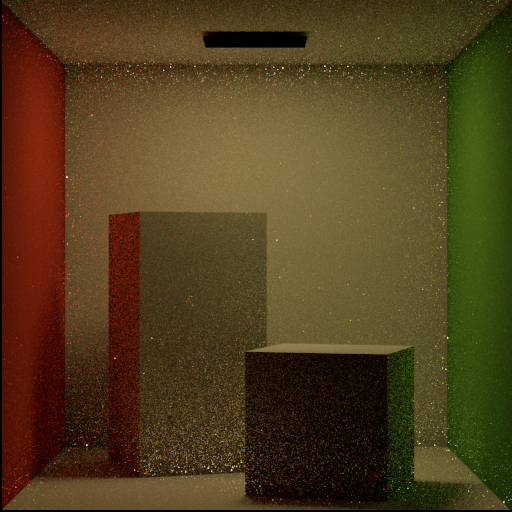
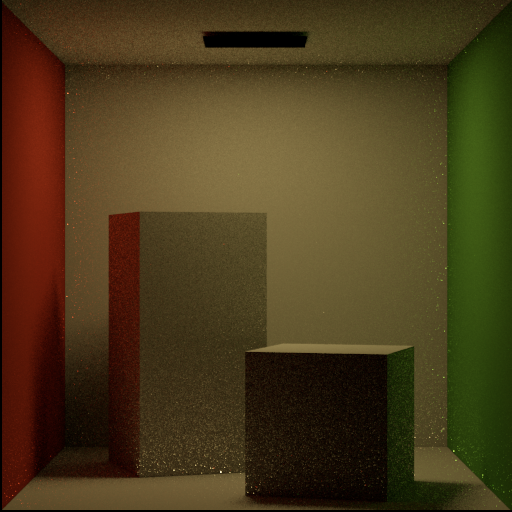
update gallery and readme

diff --git a/src/integrators/bidir.cpp b/src/integrators/bidir.cpp
@@ -39,7 +39,8 @@ private:
                          int max_vertices) const;
 
     Vec3f connectPaths(const std::vector<Vertex> &cam_path, const std::vector<Vertex> &light_path,
-                       const Scene *scene, int s, int t, Float &mis_weight, Vec2f &pfilm_new) const;
+                       const Scene *scene, int s, int t, Float &mis_weight, Vec2f &pfilm_new,
+                       Sampler *sampler) const;
 
     bool isConnValid(const std::vector<Vertex> &cam_path, const std::vector<Vertex> &light_path,
                      const Scene *scene, int cam_idx, int light_idx) const;
@@ -75,7 +76,7 @@ public:
                 //     continue;
                 Vec2f pfilm_new{-1};
                 Float mis_weight = 0;
-                Vec3f contrib = connectPaths(cam_path, light_path, scene, s, t, mis_weight, pfilm_new);
+                Vec3f contrib = connectPaths(cam_path, light_path, scene, s, t, mis_weight, pfilm_new, sampler);
                 // TODO: right now ignore pfilm_new. this is for direct connection of light vertex to camera
                 L += contrib * mis_weight;
             }
@@ -227,10 +228,11 @@ void BidirIntegrator::createLightPath(std::vector<Vertex> &light_path, const Sce
 }
 
 Vec3f BidirIntegrator::connectPaths(const std::vector<Vertex> &cam_path, const std::vector<Vertex> &light_path,
-                                    const Scene *scene, int s, int t, Float &mis_weight, Vec2f &pfilm_new) const {
+                                    const Scene *scene, int s, int t, Float &mis_weight, Vec2f &pfilm_new,
+                                    Sampler *sampler) const {
     if (!isConnValid(cam_path, light_path, scene, t - 1, s - 1))
         return Vec3f{0};
-
+        
     int cam_idx = t - 1;
     int light_idx = s - 1;
     Vertex vcam = cam_path.at(cam_idx);

diff --git a/src/core/Integrator.cpp b/src/core/Integrator.cpp
@@ -25,8 +25,8 @@ void SamplingIntegrator::render(const Scene *scene, Sensor *sensor, uint32_t n_t
         if (!g_DEBUG)
             break;
         for (int col = 0; col < width; col++) {
-            // if (row != 0 || col != 95)
-            //     continue;
+            if (row != 97 || col != 144)
+                continue;
             for (size_t i = 0; i < sensor->sampler.spp; i++) {
                 Float px, py;
                 Ray sensor_ray = sensor->sample_ray(row, col, sensor->sampler.get_2D(), px, py);

diff --git a/README.md b/README.md
@@ -16,7 +16,7 @@ PacificRenderer is a physically-based renderer written in C++. It aims to provid
     - Path tracer (`path`)
 	- Particle tracer (`ptracer`)
 	- Unstratified path tracer (`path-unstrat`. In contrast to the regular path tracer which samples the film plane pixel by pixel(i.e. stratified), this integrator samples the film plane in an unstratified manner. It's noisier than the regular path tracer, and was written for the purpose of demonstrating the advantages of stratified sampling)
-	- Bidirectional path tracer (`bidirectional`. Note that the strategies for s=0 and t=1 are not yet implemented, hence the resulting images are not better than the previous integrators)
+	- Bidirectional path tracer (`bidir`. Note that the strategies for s=0 and t=1 are not yet implemented, hence the resulting images are not better than the previous integrators)
 	- Direct lighting (`direct`)
 	- Depth (`depth`), Albedo (`albedo`), Geometric normal (`geometric_normal`)
 - **BSDFs and Materials**:
@@ -88,6 +88,8 @@ PacificRenderer is a physically-based renderer written in C++. It aims to provid
 
 Below are some images rendered with PacificRenderer. The scene files are mostly from [Mitsuba gallery](https://mitsuba.readthedocs.io/en/stable/src/gallery.html). Stanford bunny and dragon are from [Stanford 3D scanning repository](https://graphics.stanford.edu/data/3Dscanrep/).
 
+*Remark*: Some techniques in the bidirectional path tracing (s=0, t=1) are not implemented yet, hence the resulting images may be a little darker.
+
 ### Cornell Box
 
 | cornell-box | cbox-pacific | cbox-plastic |
@@ -109,6 +111,10 @@ Below are some images rendered with PacificRenderer. The scene files are mostly 
 | path-trace(spp=32) | pathtrace-unstr(spp=32) | particle-trace(spp=32) | bidir-path-trace(spp=32) |
 |-----|---|-----|-----|
 | ![pathtrace32](gallery/cornell-box-pathtrace-spp32.png) | ![pathtrace_unstrat32](gallery/cornell-box-pathtrace_unstrat-spp32.png) | ![ptrace32](gallery/cornell-box-ptrace-spp32.png) | ![bidir32](gallery/cornell-box-bidir-spp32.png) |
+
+| path-trace(spp=48) | bidir-pt(spp=32, equal time) |
+|--------------------|------------------------------|
+| ![](gallery/veach-ajar-pathtrace-spp48.png) | ![](gallery/veach-ajar-bdpt-spp32.png) |
 
 | path-trace(spp=2048) | particle-trace(spp=2048) |
 |----------------------|--------------------------|
